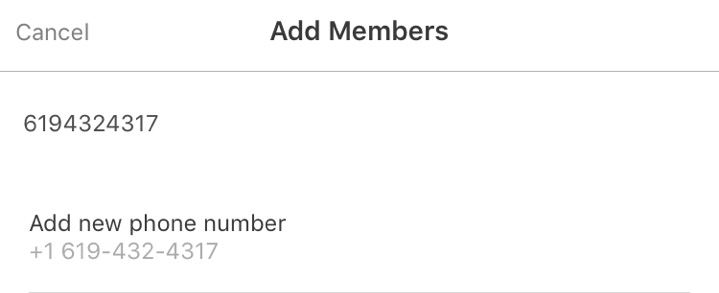
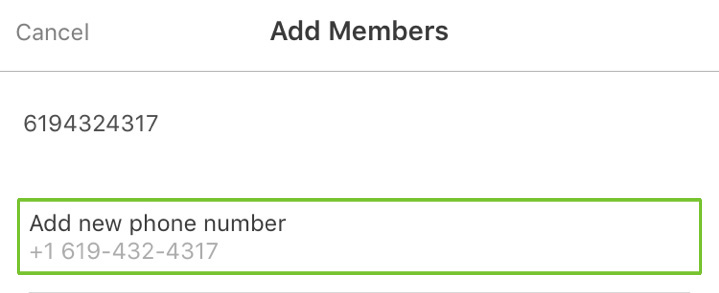
modified CTA button, began setting up JS

Changed region(s): [[0.0, 0.6758, 0.9791, 0.9522]]

diff --git a/build/home.css b/build/home.css
@@ -31,6 +31,18 @@ header {
       max-width: 400px;
       margin: 10px auto; }
 
+button.cta {
+  -webkit-appearance: none;
+  border: none;
+  background-color: #77c32f;
+  color: white;
+  padding: 10px;
+  font-size: 1.2em;
+  border-radius: 5px;
+  display: block;
+  margin: 10px auto;
+  cursor: pointer; }
+
 .well {
   background-color: #f8f8f8;
   font-size: 1.2em;

diff --git a/css/home.scss b/css/home.scss
@@ -53,7 +53,22 @@ header {
 			margin: 10px auto;
 		}
 	}
+}
 
+button.cta {
+	-webkit-appearance: none;
+	border: none;
+	background-color: #77c32f;
+	color: white;
+
+	padding: 10px;
+	font-size: 1.2em;
+	border-radius: 5px;
+
+	display: block;
+	margin: 10px auto;
+
+	cursor: pointer;
 }
 
 .well {

diff --git a/index.php b/index.php
@@ -1,5 +1,6 @@
 <?php
-
+	// Character set adapted from http://ux.stackexchange.com/a/21078
+	$code = substr(str_shuffle(str_repeat("abcdefghkmnoprstwxzABCDEFGHJKLMNPQRTWXY", 6)), 0, 6);
 ?>
 <!DOCTYPE html>
 <html lang="en">
@@ -7,6 +8,8 @@
 		<title>Groupme Analysis</title>
 
 		<link type="text/css" rel="stylesheet" href="build/home.css" />
+		<script src="https://ajax.googleapis.com/ajax/libs/jquery/3.1.0/jquery.min.js"></script>
+		<script src="js/main.js"></script>
 	</head>
 	<body>
 		<header>
@@ -31,14 +34,14 @@
 					<h3>Step 3</h3>
 					Set the user's name to:
 					<div class="well">
-						ZcJasF
+						<?php echo $code; ?>
 					</div>
 					<img src="assets/add2.jpg" />
 				</li>
 				<li>
 					<h3>Step 4</h3>
 					Click this button once the user has been added to the group!
-					<button type="submit">Added!</button>
+					<button type="submit" class="cta" data-name="<?php echo $code; ?>">Added!</button>
 				</li>
 			</ul>
 		</div>
